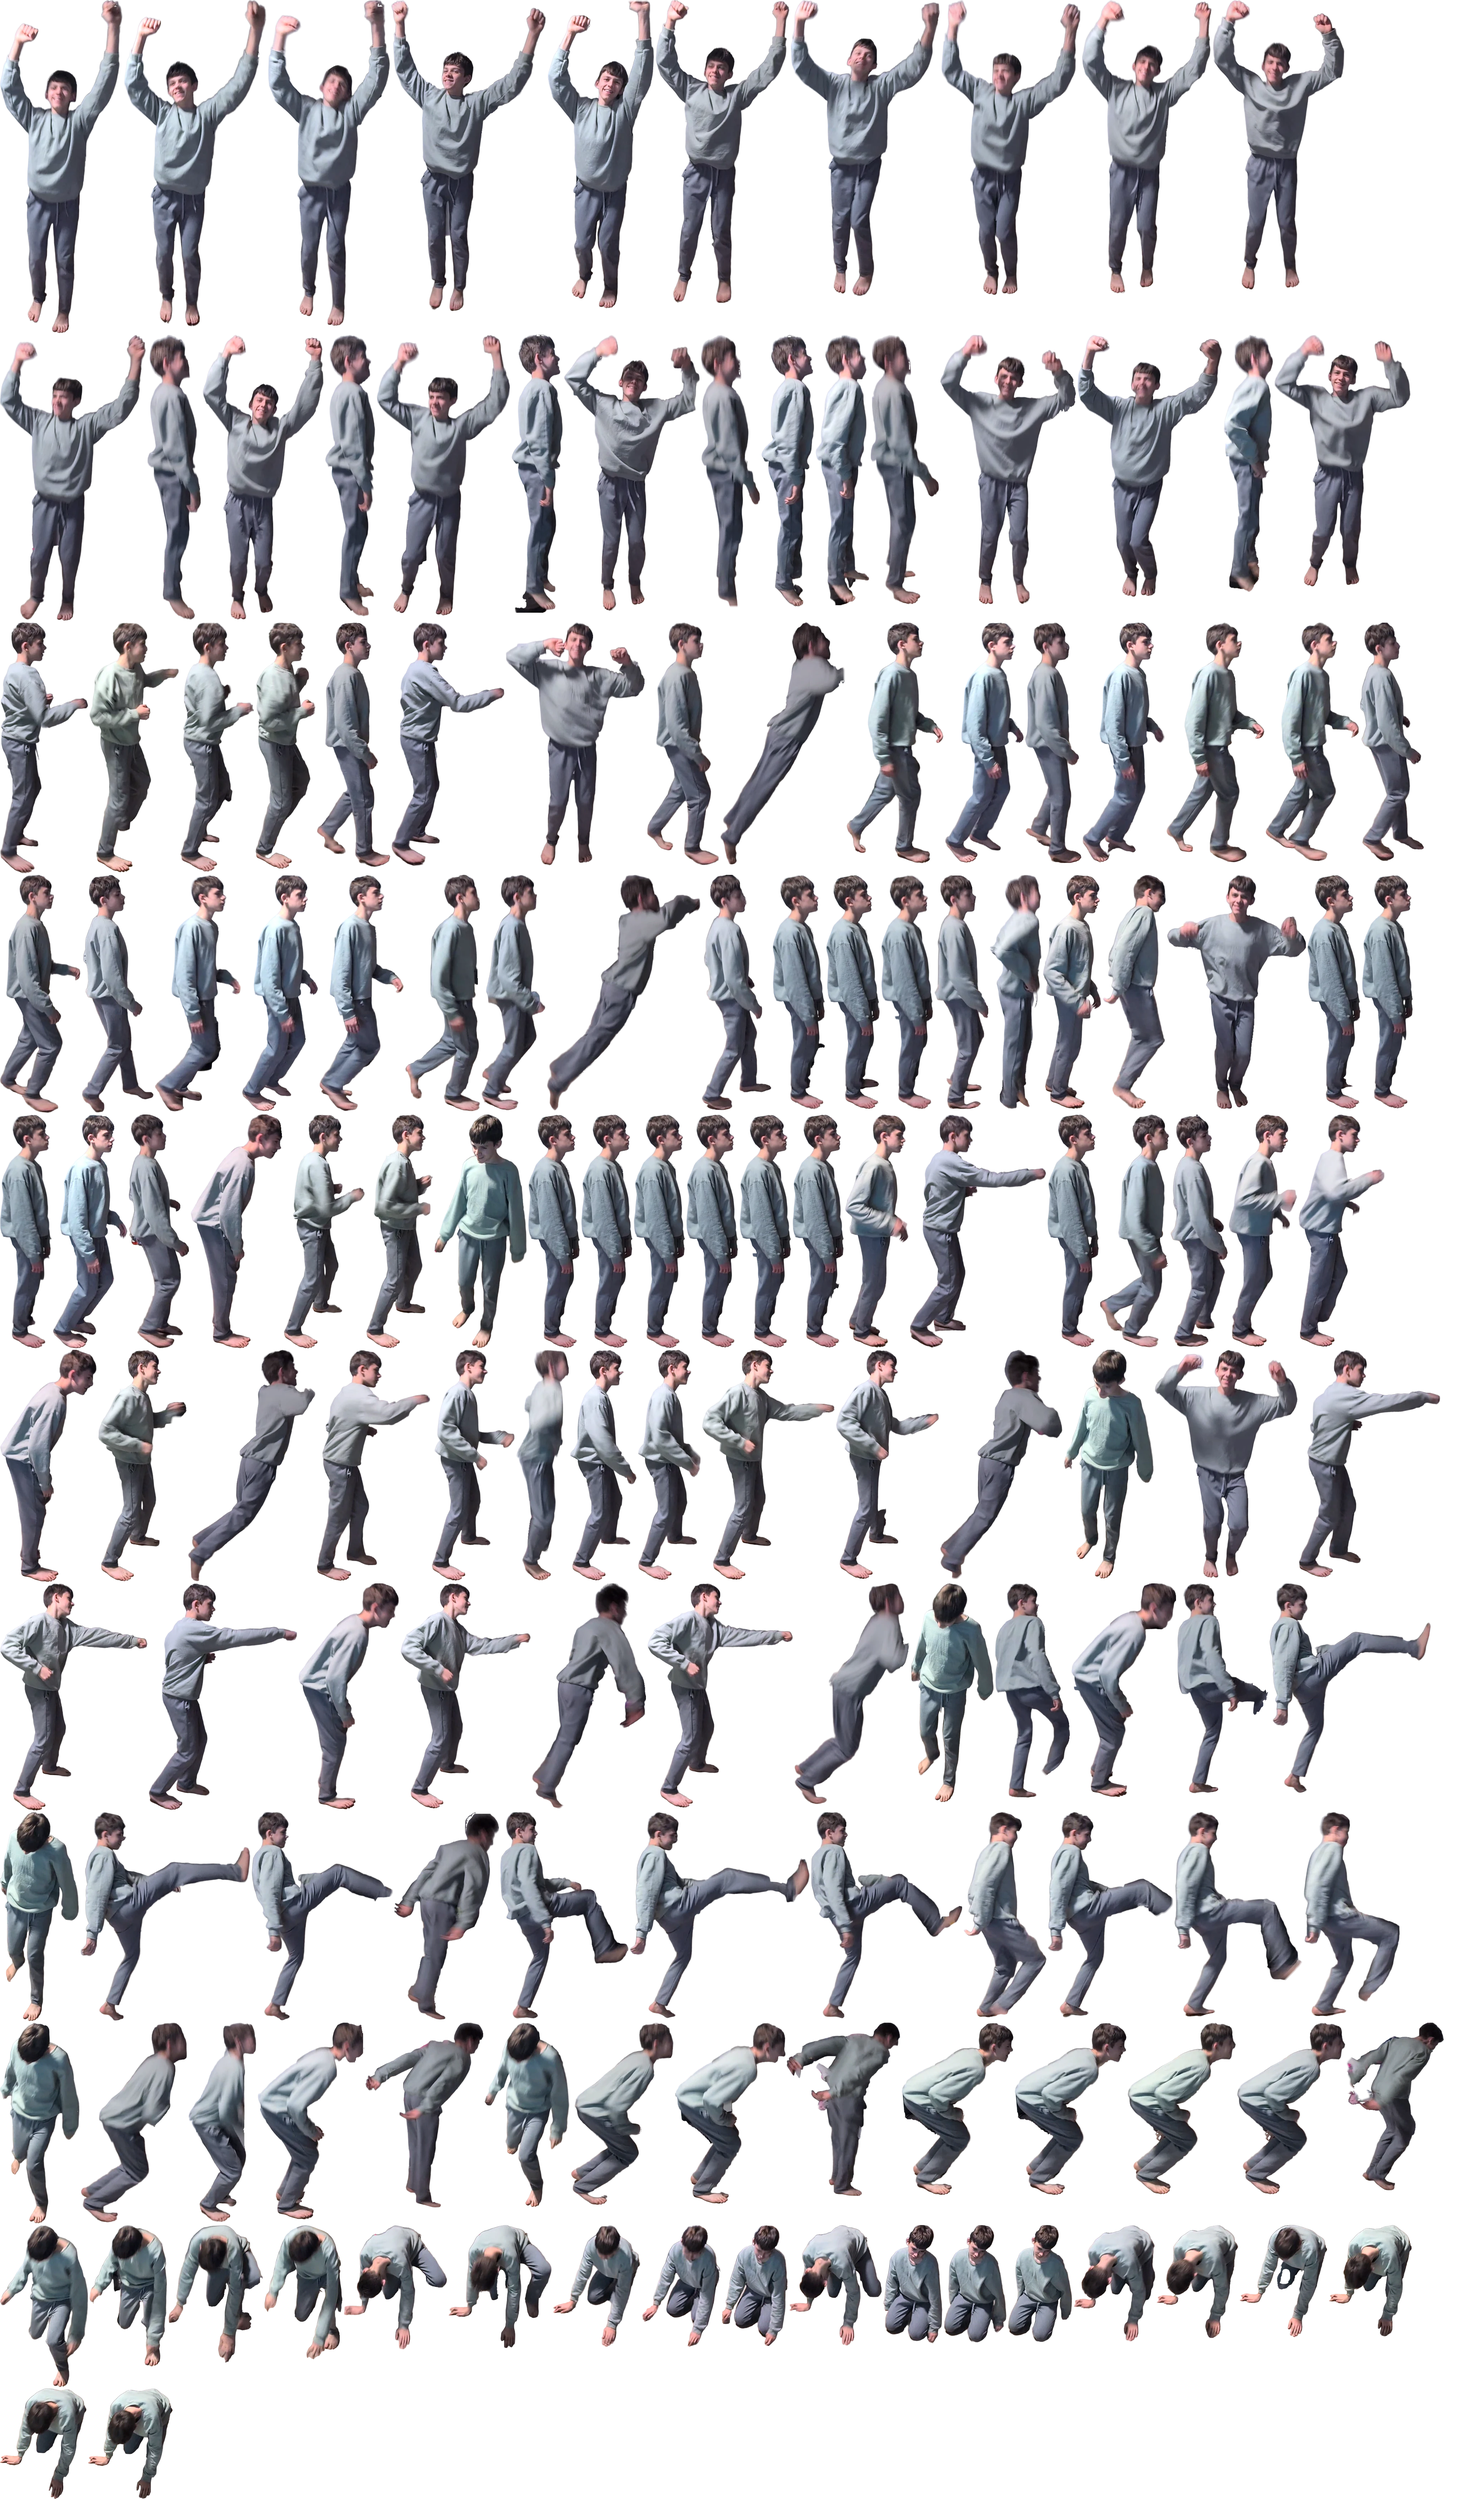
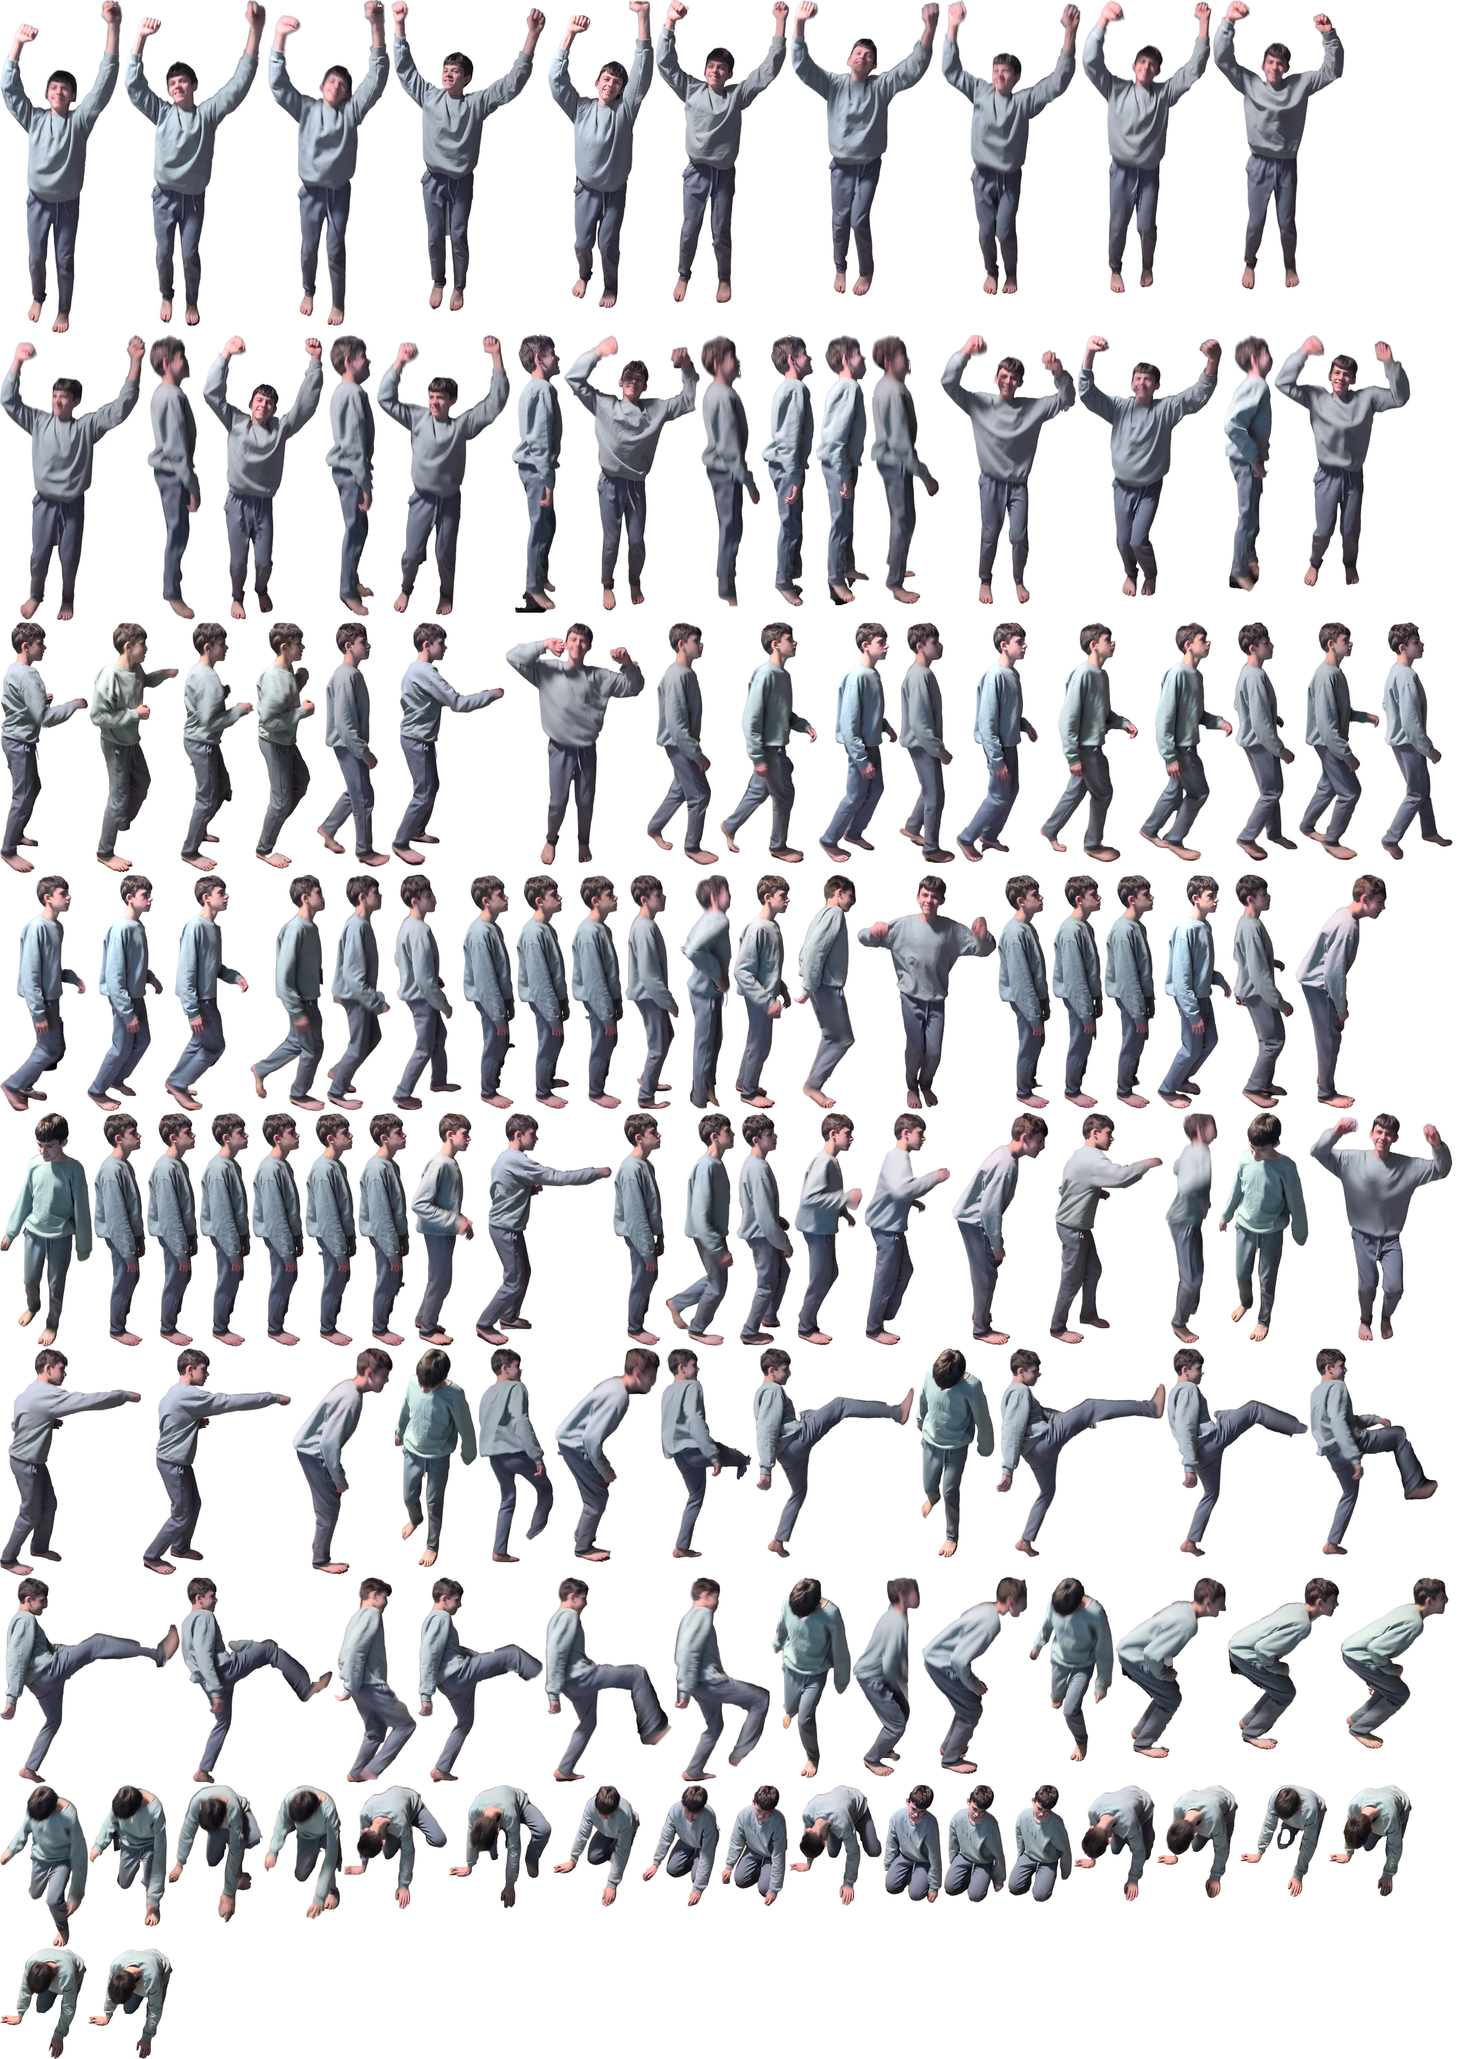
pofighter: keep it simple, one punch and one kick (drop high punch and lunge)

diff --git a/src/PoMiniGames.Client/wwwroot/js/pofighter/sim.js b/src/PoMiniGames.Client/wwwroot/js/pofighter/sim.js
@@ -3,7 +3,7 @@
 //
 // Units are sprite-sheet pixels: the fighter data (data/pofighter/<id>.json, written by
 // scripts/pofighter/pack.py) gives every picture an anchor on the ground line and `r`, how far
-// its outline reaches in front of that anchor. An attack hits with `r`. A filmed jump or lunge
+// its outline reaches in front of that anchor. An attack hits with `r`. A filmed jump
 // leaves the floor in the pictures themselves (the anchor sits below the feet), so the rules
 // only read how high the picture is, for the shadow.
 
@@ -16,14 +16,14 @@ export const WORLD = {
     jumpLift: 120,   // the height the shadow is scaled against
 };
 
-export const ATTACKS = ['punchMid', 'punchHigh', 'kick', 'lunge'];
+export const ATTACKS = ['punchMid', 'kick'];
 // Everything a single press asks for: the attacks, a cheer and a fall.
 export const ACTIONS = [...ATTACKS, 'victory', 'ko'];
 // These play to their end; nothing cancels them.
 const LOCKED = new Set(['jump', 'getUp', ...ATTACKS]);
 // Where on the bag each attack lands, as a height above the ground (for the spark).
-const HIT_HEIGHT = { punchMid: 265, punchHigh: 310, kick: 245, lunge: 290 };
-const BAG_PUSH = { kick: 3.2, lunge: 3.6 };
+const HIT_HEIGHT = { punchMid: 265, kick: 245 };
+const BAG_PUSH = { kick: 3.2 };
 
 export const CHEER_EVERY = 10;        // every tenth hit, the fighter celebrates
 export const VICTORY_SECONDS = 2.4;   // a cheer's length when nothing interrupts it
@@ -93,7 +93,7 @@ export function step(state, input, dt, data) {
 
     const current = moves[state.move];
     if (LOCKED.has(state.move) && frameAt(current, state.t).done) {
-        // A lunge ends where the body landed, not where it took off.
+        // A punch or kick that steps in ends where the body stepped to, not where it started.
         if (current.advance) { state.x += current.advance; clampX(state); }
         const cheer = state.cheer && moves.victory;
         state.cheer = false;

diff --git a/src/PoMiniGames.Client/wwwroot/js/pofighter/index.js b/src/PoMiniGames.Client/wwwroot/js/pofighter/index.js
@@ -19,13 +19,13 @@ import { BUTTONS, ButtonEdges, activePad, pressed, stick } from '../gamepadBus.j
 const KEYS = {
     ArrowLeft: 'left', KeyA: 'left', ArrowRight: 'right', KeyD: 'right',
     ArrowUp: 'up', KeyW: 'up', ArrowDown: 'down', KeyS: 'down',
-    KeyJ: 'punchMid', KeyK: 'punchHigh', KeyL: 'kick', KeyI: 'lunge',
+    KeyJ: 'punchMid', KeyL: 'kick',
     KeyV: 'victory', KeyX: 'ko',
 };
 // Gamepad face buttons and bumpers, read through the shared helpers in gamepadBus.js.
 const PAD_ATTACKS = {
-    [BUTTONS.west]: 'punchMid', [BUTTONS.north]: 'punchHigh', [BUTTONS.south]: 'kick',
-    [BUTTONS.east]: 'lunge', [BUTTONS.lb]: 'victory', [BUTTONS.rb]: 'ko',
+    [BUTTONS.west]: 'punchMid', [BUTTONS.south]: 'kick',
+    [BUTTONS.lb]: 'victory', [BUTTONS.rb]: 'ko',
 };
 const reducedMotion = () => document.documentElement.dataset.motion === 'reduce'
     || !!window.matchMedia?.('(prefers-reduced-motion: reduce)').matches;
@@ -205,7 +205,7 @@ async function start(root, fighterId = 'p1') {
     function drawFighter() {
         const def = data.moves[state.move];
         const f = def.frames[frameAt(def, state.t).index];
-        // The filmed jump and lunge already rise in the pictures; the shadow only shrinks.
+        // The filmed jump already rises in the pictures; the shadow only shrinks.
         const squash = Math.max(0.35, 1 - state.lift / (WORLD.jumpLift * 2.2));
         ctx.fillStyle = 'rgba(0,0,0,0.3)';
         ctx.beginPath();

diff --git a/scripts/pofighter/review.template.html b/scripts/pofighter/review.template.html
@@ -34,7 +34,7 @@
 </main>
 <script>
 const DATA = /*DATA*/null;
-const TITLES = { idle: 'Idle stance', walkF: 'Walk forward', walkB: 'Walk backward', crouch: 'Crouch', jump: 'Jump', punchMid: 'Mid punch', punchHigh: 'High punch', kick: 'Kick', lunge: 'Lunge', victory: 'Victory', ko: 'Knockdown', getUp: 'Get up' };
+const TITLES = { idle: 'Idle stance', walkF: 'Walk forward', walkB: 'Walk backward', crouch: 'Crouch', jump: 'Jump', punchMid: 'Punch', kick: 'Kick', victory: 'Victory', ko: 'Knockdown', getUp: 'Get up' };
 const sheet = new Image();
 sheet.src = DATA.sheet;
 const speed = document.getElementById('speed'), cross = document.getElementById('cross');

diff --git a/scripts/pofighter/pack.py b/scripts/pofighter/pack.py
@@ -8,7 +8,7 @@ x = the body's centre line, y = the ground line. "anchorFrame" names the picture
 fixes a world move's spot (default: the first one played).
 
   "world" moves keep the body motion that was filmed: one spot on the floor anchors the
-          whole move. "advance" moves (a lunge) also carry the fighter forward by the distance
+          whole move. "advance" moves (a punch that steps in) also carry the fighter forward by the distance
           the body really travelled, once the move ends.
   "track" moves (walks) are re-centred per frame so the game supplies the travel, at the
           "speed" measured from the footage (or stated in the config).

diff --git a/docs/20261112/PoFighter-PRD.md b/docs/20261112/PoFighter-PRD.md
@@ -63,7 +63,7 @@ cleaner results.
 
 **B1 (P0).** As a player, I want to move my fighter with every control, so that I can test
 all the movements.
-- Walk forward, walk backward, crouch, jump, mid punch, high punch and kick each respond to
+- Walk forward, walk backward, crouch, jump, punch and kick each respond to
   their control and play their own animation.
 - Releasing all controls returns the fighter to the idle stance.
 
@@ -125,7 +125,7 @@ begin without reading a manual.
 | Walking forward / backward | Direction held, on the ground | Direction released, or another move starts |
 | Crouching | Down held, on the ground | Down released |
 | Jumping | Up pressed, on the ground | The fighter lands |
-| Attacking (mid punch, high punch, kick, lunge) | Attack pressed, on the ground, not already attacking | The attack animation ends; a lunge leaves the fighter where it landed |
+| Attacking (punch, kick) | Attack pressed, on the ground, not already attacking | The attack animation ends; an attack that steps in leaves the fighter where it stepped to |
 | Cheering | Cheer pressed, or every 10th hit once the attack ends | 2.4 s pass, or any control after the first 0.5 s |
 | Knocked down | Fall pressed | Any control after the fall (0.8 s), which plays the fall backwards to stand up |
 
@@ -147,7 +147,7 @@ the hub. There is no win, loss or end screen.
 | In scope for this milestone | Out of scope for this milestone |
 |---|---|
 | One fighter from the one supplied video | Further fighters and fighter select |
-| Idle, walk forward, walk backward, crouch, jump, mid punch, high punch, kick, lunge, cheer, knockdown | Block, hit reaction (listed as missing) |
+| Idle, walk forward, walk backward, crouch, jump, punch, kick, cheer, knockdown | Block, hit reaction (listed as missing) |
 | Practice room with a stationary dummy, hit flash and hit counter | Health bars, rounds, timer, winner |
 | On-screen move list; reset; step-through of a move | Computer opponent, second player, online play |
 | Keyboard, gamepad and touch controls | Scores, leaderboards, saved progress |
@@ -199,17 +199,16 @@ view facing right; the camera is hand-held and pans, tilts and zooms to follow.
 
 | Move | Found | Frames used | Note |
 |---|---|---|---|
-| Idle stance | Yes | 4–64 | Still, side-on |
-| Walk forward | Yes | 196–282 | A clean walk; the camera follows, so travel is measured from the background |
-| Walk backward | No | — | Walk forward played in reverse |
-| Crouch | Yes | 892–904 | The squat before the jump; some motion blur |
-| Jump | Yes | 892–934 | Real airtime, the floor is held from the first picture |
-| Mid punch | Yes | 404–428 | Lead-hand jab |
-| High punch | Yes | 494–514 | Rear-hand cross |
-| Kick | Yes | 643–673 | High side-on kick (others at 556–604, 739–802) |
-| Lunge | Yes | 968–1000 | Crouch and dive forward; the camera whips round after it |
-| Victory (cheer) | Yes | 1188–1264 | Facing the camera, arms pumping |
+| Idle stance | Yes | 8–60 | Still, side-on |
+| Walk forward | Yes | 268–290 | One whole stride cycle, so the loop has no seam; the camera follows, so travel is measured from the background |
+| Walk backward | Yes | 320–338 | One whole stride cycle |
+| Crouch | Yes | 968–982 | The wind-up of a dive; the squat before the jump (898–908) has a black bag pressed to the legs |
+| Jump | Yes | 910–930 | Real airtime, ends on the most upright landing; the floor is held from the first picture |
+| Punch | Yes | 404–428 | Lead-hand jab; keeps the step it takes in (`advance`) |
+| Kick | Yes | 643–667 | High side-on kick, ends once the leg is down (others at 556–604, 739–802) |
+| Victory (cheer) | Yes | 1188–1264 | Facing the camera, arms pumping; re-centred so it stays in place |
 | Knockdown | Yes | 1374–1446 | Fall to the knees; the camera tilts down and zooms in, corrected per picture |
+| High punch, lunge | Cut | — | Filmed (494–514, 968–1006) but dropped to keep one punch and one kick |
 | Block, hit reaction | No | — | Listed as missing |
 
 How the pictures are made (`scripts/pofighter/`): YOLO person segmentation picks the

diff --git a/scripts/pofighter/README.md b/scripts/pofighter/README.md
@@ -47,7 +47,7 @@ See the docstring at the top of `pack.py` for every key. In short: `from`/`to`/`
 explicit `frames` list) choose pictures; `anchor` is `world` (keep the filmed body motion) or
 `track` (re-centre, the game supplies the travel); `ground: hold` keeps a jump's floor; `rate`
 speeds a move up; `reverse` plays it backwards; `advance` moves the fighter by the distance a
-lunge travelled; `refFrame`/`anchorFrame` name the standing picture for a reversed move;
+step-in attack travelled; `refFrame`/`anchorFrame` name the standing picture for a reversed move;
 `colorMatch` evens out the phone's exposure; `res` bakes the sheet at that many pixels per world
 unit (p1 uses 1.75, about the video's own detail) so the fighter stays sharp when the canvas scales
 the world up — anchors stay in world units and the engine draws each cell at `w / res`.
@@ -58,7 +58,7 @@ Every move starts and (for one-shots) returns to the idle stance with a hard cut
 
 - a walk's range is one whole stride cycle (its last picture is one step before its first);
 - a one-shot ends on the picture that looks most like the stance (the jump at its most upright
-  landing, the kick once the leg is down, the lunge once it has landed);
+  landing, the kick once the leg is down);
 - a move the performer travels in either keeps that travel (`advance`) or is re-centred
   (`anchor: track` with `speed: 0`, the cheer), so the stance never jumps back on the floor.
 
@@ -66,5 +66,5 @@ Every move starts and (for one-shots) returns to the idle stance with a hard cut
 
 In the crouch/jump stretch (frames 898–908) the performer squats right in front of a black bag;
 YOLO counts it as body, and it is no darker than the trousers in shadow, so neither the models nor
-a brightness cut can drop it. `crouch` therefore uses the lunge's wind-up (968–982), and `jump`
+a brightness cut can drop it. `crouch` therefore uses the wind-up of a dive (968–982), and `jump`
 starts at 910 with `refFrame` 914 (an upright picture sets its size).

diff --git a/README.md b/README.md
@@ -148,7 +148,7 @@ sign-in: a player is a random browser id plus three initials.
 | PoMule | Sixteen-player M.U.L.E.: claim land, work M.U.L.E.s and trade on a walking-floor market for twelve months vs fifteen AI colonists across seven personalities; all-AI demo |
 | PoEcosystem | Watch-only island simulation: unified species & tribes, physical village building, seasons/weather/disease, caravans, fast-forward (+1y/+5y), naturalist Photo Mode postcards, opt-in browser persistence, and cloud gallery |
 | SandPlayground | GPU sand-and-water sandbox |
-| PoFighter | Preview. A 2D fighter whose character is cut from a phone video of a real person. `/pofighter/1player` is a practice room: walk, crouch, jump, punch, high punch, kick and lunge against a punching bag that counts hits, plus a cheer (every 10 hits) and a knockdown; keyboard, gamepad or touch. Nothing is scored or sent. New fighters are made offline with `scripts/pofighter/` (see `DOCS/20261112/PoFighter-PRD.md`) |
+| PoFighter | Preview. A 2D fighter whose character is cut from a phone video of a real person. `/pofighter/1player` is a practice room: walk, crouch, jump, punch and kick against a punching bag that counts hits, plus a cheer (every 10 hits) and a knockdown; keyboard, gamepad or touch. Nothing is scored or sent. New fighters are made offline with `scripts/pofighter/` (see `DOCS/20261112/PoFighter-PRD.md`) |
 
 In PoBrawl FFA, knockouts use the same jointed physics ragdolls as 1v1: fighters
 fall from their current pose with the final hit's momentum instead of snapping
